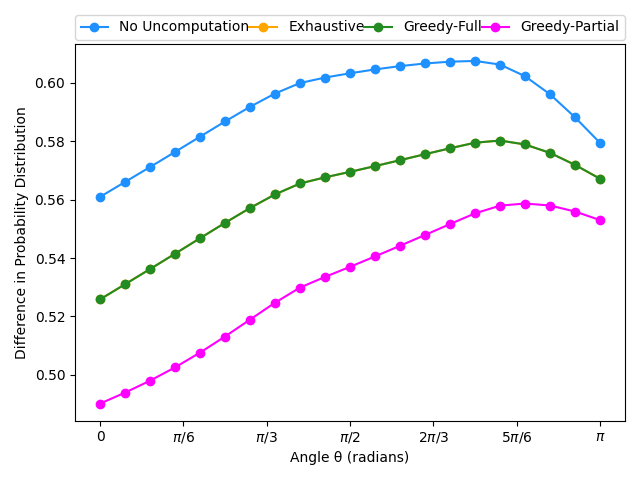
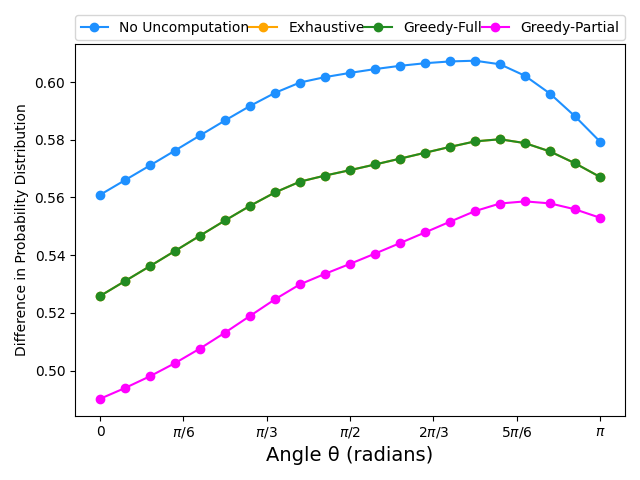
Bigger Font on all the plots

diff --git a/helperfunctions/evaluation.py b/helperfunctions/evaluation.py
@@ -217,7 +217,7 @@ def plot_ancillas_bar(results_dict, figname='NEEDFIGNAME', image_write_path='NEE
     # plt.plot(x_axis, gp_uncomp_avg, marker='o', linestyle='-', label='Greedy-Partial')
 
     # plt.legend()
-    # plt.xlabel(xlabel)
+    # plt.xlabel(xlabel, fontsize=14)
     # plt.ylabel(ylabel)
     # plt.title(title)
     # # fig = plt.show()
@@ -310,7 +310,7 @@ def plot_ancilla_results(results_dict, figname='NEEDFIGNAME', image_write_path='
     plt.legend(bbox_to_anchor=(0, 1.01, 1, 0.2), loc='lower left',
             ncol=5, mode="expand", borderaxespad=0)
     
-    plt.xlabel(xlabel)
+    plt.xlabel(xlabel, fontsize=14)
     plt.ylabel(ylabel)
     # plt.title(title)
     # fig = plt.show()
@@ -351,7 +351,7 @@ def plot_results_bar(results_dict, figname='NEEDFIGNAME', image_write_path='NEED
     # plt.plot(x_axis, gp_uncomp_avg, marker='o', linestyle='-', label='Greedy-Partial')
 
     # plt.legend()
-    # plt.xlabel(xlabel)
+    # plt.xlabel(xlabel, fontsize=14)
     # plt.ylabel(ylabel)
     # plt.title(title)
     # # fig = plt.show()
@@ -444,7 +444,7 @@ def plot_results(results_dict, figname='NEEDFIGNAME', image_write_path='NEED_IMA
 
     plt.legend(bbox_to_anchor=(0, 1.01, 1, 0.2), loc='lower left',
             ncol=5, mode="expand", borderaxespad=0)
-    plt.xlabel(xlabel)
+    plt.xlabel(xlabel, fontsize=14)
     plt.ylabel(ylabel)
     # plt.title(title)
     # fig = plt.show()
@@ -502,7 +502,7 @@ def plot_results_angles(results_dict, figname='NEEDFIGNAME', image_write_path='N
     plt.legend(bbox_to_anchor=(0, 1.01, 1, 0.2), loc='lower left',
             ncol=5, mode="expand", borderaxespad=0)    
     
-    plt.xlabel(xlabel)
+    plt.xlabel(xlabel, fontsize=14)
     plt.ylabel(ylabel)
     # plt.title(title)
     # fig = plt.show()
